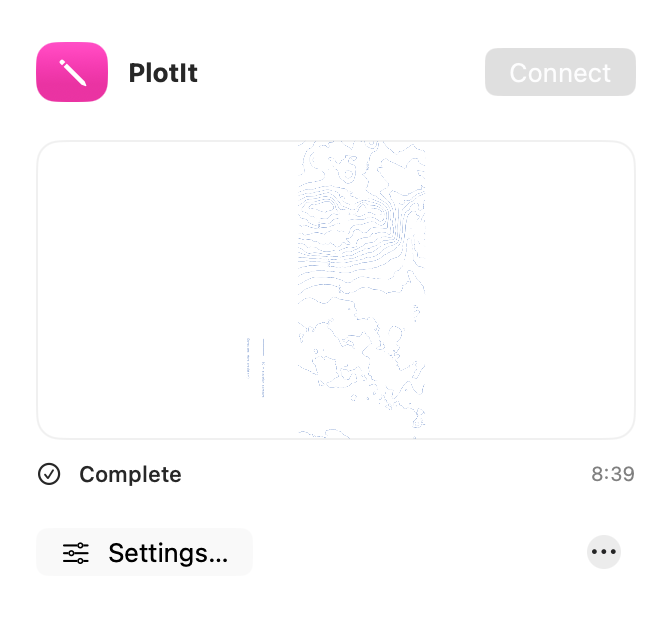
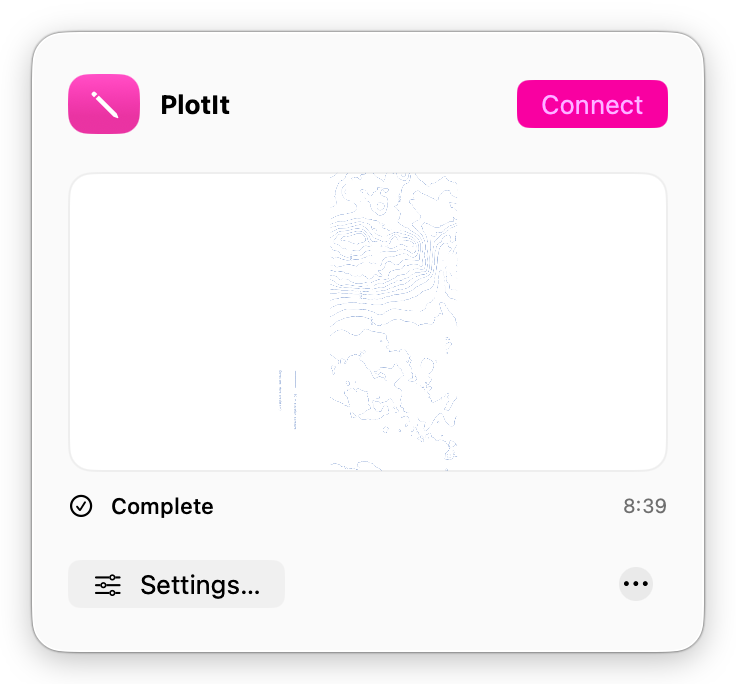
Show full native glass window captures for alpha 5

diff --git a/site/macos/index.html b/site/macos/index.html
@@ -9,10 +9,10 @@
 <div class="actions"><a id="mac-checksums" class="text-link" href="https://github.com/thierryc/Plot-It/releases/download/plotit-mcp-v0.1.0-alpha.1/SHA256SUMS.txt">Verify download checksums</a><a id="mac-notes" class="text-link" href="https://github.com/thierryc/Plot-It/releases/tag/plotit-mcp-v0.1.0-alpha.1">Release notes</a></div>
 <section aria-labelledby="mac-tour"><h2 id="mac-tour">Set it up here.<br>Follow it in the conversation.</h2><p>Choose your paper and pen settings in the Mac app, then let your agent help prepare the drawing. A live card keeps the preview, progress and controls together.</p>
 <div class="mac-showcase">
-<figure class="mac-shot"><div class="mac-shot-frame"><a href="%BASE_URL%macos/media/mac-setup.png?v=11" aria-label="Open the Mac setup screenshot at full size"><img src="%BASE_URL%macos/media/mac-setup.png?v=11" width="746" height="680" loading="lazy" alt="Current PlotIt Mac setup with paper presets, pen heights, Advanced calibration and App settings in the sidebar"></a></div><figcaption><strong>Set up your plotter.</strong>Choose paper, calibrate the pen and connect. Native view with example settings; no plotter is connected.</figcaption></figure>
-<figure class="mac-shot" id="app-settings"><div class="mac-shot-frame"><a href="%BASE_URL%macos/media/app-settings.png" aria-label="Open the App settings screenshot at full size"><img src="%BASE_URL%macos/media/app-settings.png" width="746" height="680" loading="lazy" alt="PlotIt App settings with Check for Updates and the Automatic updates switch turned on"></a></div><figcaption><strong>Updates, on your terms.</strong>Automatic updates are on by default. Turn them off in Settings… → App settings; manual checks remain available.</figcaption></figure>
-<figure class="mac-shot mac-shot-menu" id="connection-menu"><div class="mac-shot-frame"><a href="%BASE_URL%macos/media/connection-menu.png" aria-label="Open the connected menu screenshot at full size"><img src="%BASE_URL%macos/media/connection-menu.png" width="336" height="310" loading="lazy" alt="PlotIt connection menu with the lightning pen icon, Disconnect control, completed drawing preview, Settings and compact More menu"></a></div><figcaption><strong>One connection control.</strong>Connect or disconnect from the menu bar. The lightning symbol appears while connected. Native view with example connection and drawing states.
-<details class="mac-menu-alternative"><summary>See the disconnected state</summary><a href="%BASE_URL%macos/media/connection-menu-disconnected.png" aria-label="Open the disconnected menu screenshot at full size"><img src="%BASE_URL%macos/media/connection-menu-disconnected.png" width="336" height="310" loading="lazy" alt="Disconnected PlotIt menu with a whole pen icon without lightning and a Connect control"></a></details></figcaption></figure>
+<figure class="mac-shot"><div class="mac-shot-frame"><a href="%BASE_URL%macos/media/mac-setup.png?v=12" aria-label="Open the Mac setup screenshot at full size"><img src="%BASE_URL%macos/media/mac-setup.png?v=12" width="746" height="680" loading="lazy" alt="Current PlotIt Mac setup with paper presets, pen heights, Advanced calibration and App settings in the sidebar"></a></div><figcaption><strong>Set up your plotter.</strong>Choose paper, calibrate the pen and connect. Native view with example settings; no plotter is connected.</figcaption></figure>
+<figure class="mac-shot" id="app-settings"><div class="mac-shot-frame"><a href="%BASE_URL%macos/media/app-settings.png?v=12" aria-label="Open the App settings screenshot at full size"><img src="%BASE_URL%macos/media/app-settings.png?v=12" width="746" height="680" loading="lazy" alt="PlotIt App settings with Check for Updates and the Automatic updates switch turned on"></a></div><figcaption><strong>Updates, on your terms.</strong>Automatic updates are on by default. Turn them off in Settings… → App settings; manual checks remain available.</figcaption></figure>
+<figure class="mac-shot mac-shot-menu" id="connection-menu"><div class="mac-shot-frame"><a href="%BASE_URL%macos/media/connection-menu.png?v=12" aria-label="Open the connected menu screenshot at full size"><img src="%BASE_URL%macos/media/connection-menu.png?v=12" width="368" height="342" loading="lazy" alt="Modern PlotIt glass window with rounded outer corners and shadow, lightning pen icon, Disconnect, drawing preview, Settings and a compact More menu"></a></div><figcaption><strong>A native glass window.</strong>Rounder corners, one connection control and your drawing preview. The lightning symbol appears while connected. Full window captures use example connection and drawing states.
+<details class="mac-menu-alternative"><summary>See the disconnected state</summary><a href="%BASE_URL%macos/media/connection-menu-disconnected.png?v=12" aria-label="Open the disconnected menu screenshot at full size"><img src="%BASE_URL%macos/media/connection-menu-disconnected.png?v=12" width="368" height="342" loading="lazy" alt="Disconnected PlotIt menu with a whole pen icon without lightning and a Connect control"></a></details><details class="mac-menu-alternative"><summary>See the dark appearance</summary><a href="%BASE_URL%macos/media/connection-menu-dark.png?v=12" aria-label="Open the dark connection menu screenshot at full size"><img src="%BASE_URL%macos/media/connection-menu-dark.png?v=12" width="368" height="342" loading="lazy" alt="The connected PlotIt glass window in dark appearance, with rounded outer corners and magenta controls"></a></details></figcaption></figure>
 <figure class="mac-shot"><div class="mac-shot-frame"><a href="%BASE_URL%macos/media/plot-progress.png" aria-label="Open the progress card screenshot at full size"><img src="%BASE_URL%macos/media/plot-progress.png" width="520" height="513" loading="lazy" alt="PlotIt progress card showing a drawing preview, 38 percent estimated progress, elapsed and remaining time, and Pause and Stop controls"></a></div><figcaption><strong>Follow the drawing in your chat.</strong>Actual progress-card UI with simulated drawing data. Interactive cards depend on your agent client's MCP Apps support.</figcaption></figure>
 </div></section>
 <section id="connect"><h2>Connect the agent you use.</h2><p>Install PlotIt MCP in Applications and keep it open. In its menu bar, choose <strong>Set Up… → Configure agent apps</strong>. Choose your client below; you can prepare and simulate drawings before connecting a plotter.</p>

diff --git a/site/docs/macos/index.html b/site/docs/macos/index.html
@@ -5,7 +5,7 @@
 <section id="install"><h2>Install the Mac app</h2><p>Download the signed and notarized Universal alpha from the <a href="%BASE_URL%macos/">Mac companion page</a>. The same download runs on Apple Silicon and Intel Macs with macOS 14 or later. Open the DMG and drag PlotIt MCP.app into Applications before configuring agents.</p><p>Open the app and find its menu-bar icon. Development packages are ad-hoc signed and are distinct from the signed, notarized public release. Verify a public download against its SHA-256 checksum. Keep normal macOS security protections enabled.</p></section>
 <section id="setup"><h2>Set up the plotter</h2><ol><li>Open Set Up. Choose the machine, USB device, paper format and pen heights. Custom dimensions are in millimetres. Save &amp; Continue preserves changes.</li><li>Connect the plotter. Test pen up/down using the saved heights. Position the carriage at the intended drawing origin and secure the paper, then capture the current position as origin.</li><li>Configure your agent app through the reviewed installation action. Start a new agent session; restart Claude Desktop if needed. Run the server test and copy the first prompt.</li></ol><p>You can also ask the agent to open PlotIt's setup card. It uses the same saved settings and hardware operations. Capturing origin never homes the machine, and the agent must not infer physical placement from an image. Setup controls are unavailable during an active plot.</p><p>Use Connect / Disconnect to control the connection. The toolbar icon gains a lightning bolt when connected. Saved configuration, an established physical origin and the native app open are required before drawing; there is no separate agent-permission switch.</p></section>
 <section id="agents"><h2>Connect your agent</h2><p>Keep PlotIt MCP open on the same Mac as your agent. From the menu bar choose <strong>Set Up…</strong>, then <strong>Configure agent apps</strong>. Each <strong>Install…</strong> action shows the destination and launch command for review. Existing files are backed up, and a conflicting PlotIt entry requires an explicit replacement.</p>
-<figure class="mac-shot"><div class="mac-shot-frame"><a href="%BASE_URL%macos/media/agent-connections.png?v=11" aria-label="Open the agent connections screenshot at full size"><img src="%BASE_URL%macos/media/agent-connections.png?v=11" width="746" height="680" loading="lazy" alt="Configure agent apps in PlotIt MCP, with separate Codex, Claude Code and Claude Desktop rows and Install and Test Server actions"></a></div><figcaption>The native connection screen, rendered with example configuration states. “Configured” means an entry is saved; “Agent connected” means a client has loaded the server.</figcaption></figure>
+<figure class="mac-shot"><div class="mac-shot-frame"><a href="%BASE_URL%macos/media/agent-connections.png?v=12" aria-label="Open the agent connections screenshot at full size"><img src="%BASE_URL%macos/media/agent-connections.png?v=12" width="746" height="680" loading="lazy" alt="Configure agent apps in PlotIt MCP, with separate Codex, Claude Code and Claude Desktop rows and Install and Test Server actions"></a></div><figcaption>The native connection screen, rendered with example configuration states. “Configured” means an entry is saved; “Agent connected” means a client has loaded the server.</figcaption></figure>
 <p>After installing a connection, choose <strong>Test connection → Run Server Test</strong>. A successful test confirms MCP initialization and tool discovery. To check the agent itself, start a fresh client session and use the first prompt below. No USB connection is needed to prepare artwork or run a simulation.</p></section>
 <section id="codex"><h2>Connect Codex</h2><ol><li>In PlotIt's <strong>Configure agent apps</strong> step, choose <strong>Install…</strong> beside <strong>Codex</strong>. Review and confirm the change.</li><li>If Codex isn't detected, choose <strong>Locate App…</strong> and select your local Codex app or executable. For a custom configuration location, expand <strong>Other clients &amp; advanced setup → Choose Codex Configuration Folder…</strong>.</li><li>Start a new local Codex chat or CLI session. Keep PlotIt MCP open, then paste the first prompt below.</li><li>Check <strong>Agent connected</strong> in PlotIt. In the Codex CLI, <code>/mcp</code> shows active servers; <code>codex mcp list</code> lists saved connections.</li></ol>
 <details class="manual-setup"><summary>Manual Codex configuration</summary><p>Use this instead of the app's Install action. Add one PlotIt table to <code>~/.codex/config.toml</code>, or the <code>config.toml</code> in your chosen <code>CODEX_HOME</code>. Keep your existing configuration and avoid duplicate PlotIt tables.</p><pre><code>[mcp_servers.plotit]

diff --git a/macos/Tests/PlotItAppTests/StatusPanelTests.swift b/macos/Tests/PlotItAppTests/StatusPanelTests.swift
@@ -107,7 +107,12 @@ final class StatusPanelTests: XCTestCase {
         backdrop.orderFrontRegardless()
         defer { controller.stop(); backdrop.close() }
         try FileManager.default.createDirectory(atPath: directory, withIntermediateDirectories: true)
-        for (name, appearance) in [("modern-panel-light", NSAppearance.Name.aqua), ("modern-panel-dark", .darkAqua)] {
+        let states: [(String, NSAppearance.Name, Bool)] = [
+            ("modern-panel-light", .aqua, false), ("modern-panel-dark", .darkAqua, false),
+            ("modern-panel-connected-light", .aqua, true), ("modern-panel-connected-dark", .darkAqua, true)
+        ]
+        for (name, appearance, connected) in states {
+            model.status?.runner = connected ? RunnerSnapshot(connected: true, status: "idle", origin: "explicit") : nil
             controller.panel.appearance = NSAppearance(named: appearance)
             backdrop.appearance = NSAppearance(named: appearance)
             backdrop.backgroundColor = appearance == .aqua ? .white : .black

diff --git a/site/macos/media/README.md b/site/macos/media/README.md
@@ -4,10 +4,13 @@ The public images live in `public/macos/media/`. HTML uses `%BASE_URL%macos/medi
 
 - `app-icon.png`: the designer-supplied 512-pixel magenta Plot-It icon, shared with `macos/Sources/PlotItApp/Resources/PlotItAppIcon.png` and `public/icon.png`. The source glyph's subtraction masks are already resolved in the native icon assets; do not replace this with a raw Glyphs SVG export.
 - `mac-setup.png` and `agent-connections.png`: native SwiftUI views rendered by `UISnapshotTests`, using the app's preview model and example configuration. The capture does not start a service, connect USB, or change an agent's configuration.
-- `connection-menu.png` and `connection-menu-disconnected.png`: current connection-menu content with example completed-job and connected/disconnected states, including the connection-aware pen symbols and compact More button. The native MenuBarExtra window supplies the real app’s material and corner clipping; these content captures are framed by the website.
+- `connection-menu.png` and `connection-menu-disconnected.png`: current connection-menu content with example completed-job and connected/disconnected states, including the connection-aware pen symbols and compact More button. These are full StatusPanel window captures, including the native material, 16-point outer mask and shadow. Window Server region captures include a neutral backdrop so translucent glass is represented correctly.
+- `connection-menu-dark.png`: the same native glass window in dark appearance, exposed through the gallery’s dark-appearance disclosure.
 - `app-settings.png`: App settings with Automatic updates on. Preview controls display normally but no updater is started and no update preferences are written.
 - `plot-progress.png`: the bundled MCP Apps progress card captured inside `scripts/preview-plot-progress.mjs`, using simulated drawing data. This is a component preview, not an assertion that a particular agent client renders cards or that a physical plot has completed.
 
-Native captures can be regenerated with `PLOTIT_CAPTURE_DIR=/tmp/plotit-site-media swift test --package-path macos --filter UISnapshotTests`. For foreground glass/control rendering, also set `PLOTIT_ACTIVE_CAPTURES=1` and `PLOTIT_SCREENSHOT_HELPER` to the screenshot skill’s `scripts/take_screenshot.py` after its screen-recording permission preflight. This captures only the isolated preview windows; regular tests remain offscreen. The active-control override is applied only to this Window Server capture path, since forcing it in `cacheDisplay` omits GPU-rendered controls. Copy `setup-0.png` to `mac-setup.png`, `setup-1.png` to `agent-connections.png`, `app-settings.png` to the same name, `menu-connected.png` to `connection-menu.png` and `menu-disconnected.png` to `connection-menu-disconnected.png`. Set `PLOTIT_PREVIEW_PATH` to a publishable drawing preview to include it in the menu captures. Use the current release build as the query version for replaced assets to refresh cached website images. The website captions disclose example/simulated data. Retain readable controls, alt text, and the original aspect ratios.
+Native captures can be regenerated with `PLOTIT_CAPTURE_DIR=/tmp/plotit-site-media swift test --package-path macos`. For foreground glass/control rendering, also set `PLOTIT_ACTIVE_CAPTURES=1` and `PLOTIT_SCREENSHOT_HELPER` to the screenshot skill’s `scripts/take_screenshot.py` after its screen-recording permission preflight. This captures only isolated preview windows; regular tests remain offscreen. The active-control override is applied only to this Window Server capture path, since forcing it in `cacheDisplay` omits GPU-rendered controls.
+
+Copy `setup-0.png` to `mac-setup.png`, `setup-1.png` to `agent-connections.png`, and `app-settings.png` to the same name. For the menu, use `modern-panel-connected-light-context.png` as `connection-menu.png`, `modern-panel-light-context.png` as `connection-menu-disconnected.png`, and `modern-panel-connected-dark-context.png` as `connection-menu-dark.png`. These context captures include the actual outer window and its shadow, rather than only the SwiftUI content. Set `PLOTIT_PREVIEW_PATH` to a publishable drawing preview. Read PNG dimensions before updating HTML aspect ratios. Use the current release build as the query version for replaced assets to refresh cached website images. Captions disclose example/simulated data.
 
 For card screenshots, capture the iframe using document coordinates (its viewport rectangle plus page scroll offsets), after the progress-bar transition settles. Exclude the preview host controls. Screenshot bytes may be JPEG; explicitly convert to PNG before saving a `.png` asset and inspect the resulting image.

diff --git a/docs/releases/plotit-mcp-0.1.0.md b/docs/releases/plotit-mcp-0.1.0.md
@@ -4,7 +4,7 @@ PlotIt MCP is a separate macOS 14+ menu-bar application for using a local USB pe
 
 The first public prerelease is `plotit-mcp-v0.1.0-alpha.1`, app version 0.1.0 build 5. Its universal package includes both Apple Silicon and Intel runtimes, is Developer ID signed and notarized, and includes its corresponding source and notices.
 
-## Unreleased · Modern menu window · build 12
+## Alpha 5 · Modern menu window · build 12
 
 The toolbar popup now uses an app-owned transparent native panel, with matching 16-point glass and outer window masks, a native shadow, and popover material on macOS 14–25. It retains drawing previews and controls, follows the status item on its display, scrolls tall content, and dismisses on Escape or outside clicks. macOS 27 uses the native expanded-interface session for menu-bar tracking and keyboard navigation. Native setup/help windows retain update controls, text-editing shortcuts, unsaved-draft handling and dynamic sizing. A DEBUG-only isolated preview and whole-window light/dark captures exercise the actual outer surface without connecting hardware.
 
